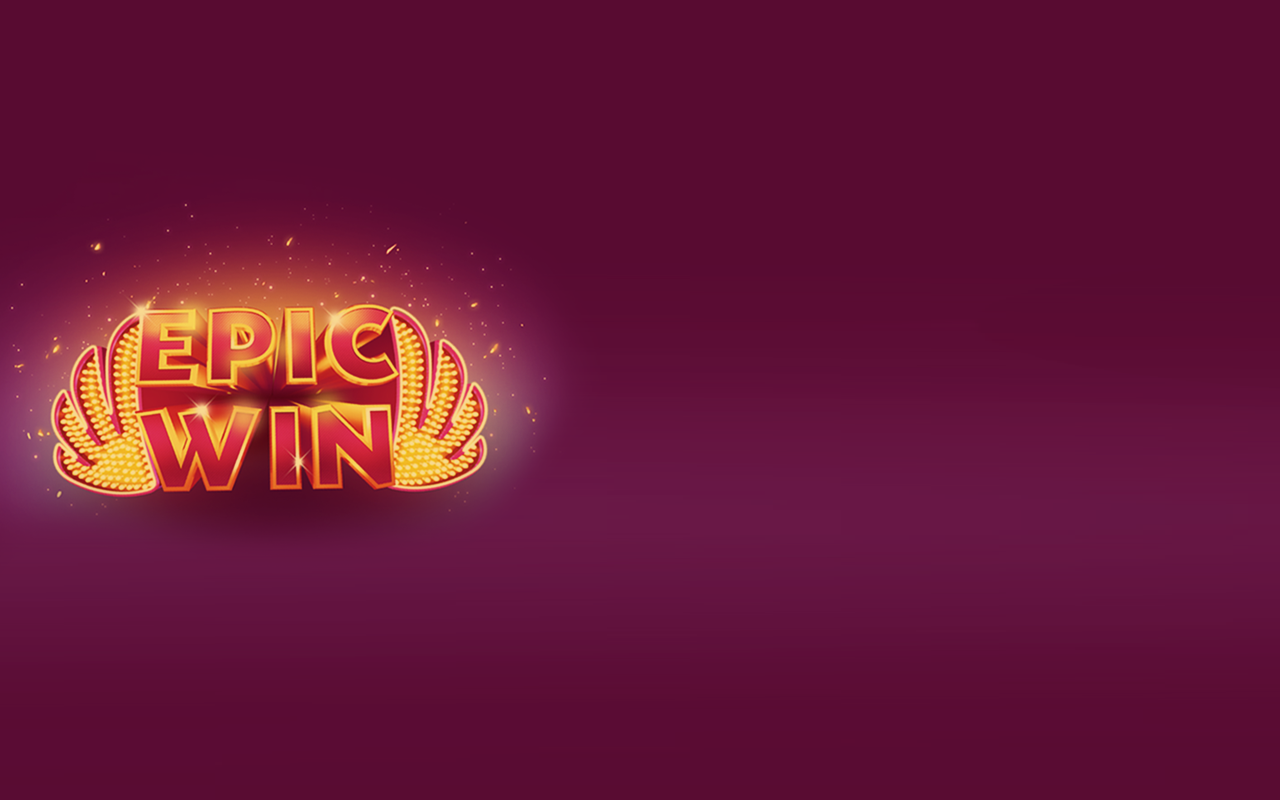
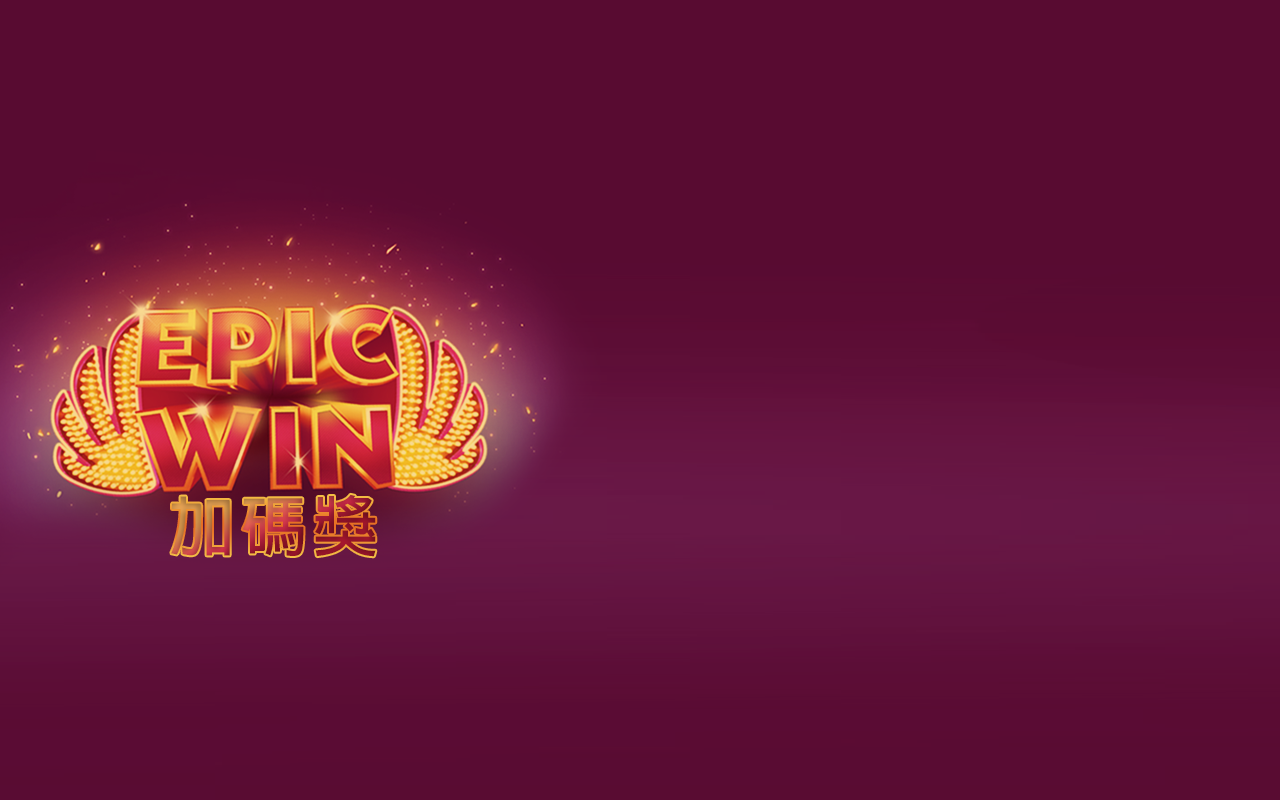
增加新人獎與加碼獎人數

Changed region(s): [[0.125, 0.5938, 0.3125, 0.7188]]

diff --git a/static/css/app.43337845.css b/static/css/app.43337845.css
@@ -1,4 +1,4 @@
-.p0{background:url(https://wenbatman33.github.io/prize_wall/static/img/all_0.png) no-repeat;background-size:cover}.p1{background:url(https://wenbatman33.github.io/prize_wall/static/img/all_1.png) no-repeat;background-size:cover}.p2{background:url(https://wenbatman33.github.io/prize_wall/static/img/all_2.png) no-repeat;background-size:cover}.p3{background:url(https://wenbatman33.github.io/prize_wall/static/img/all_3.png) no-repeat;background-size:cover}.p4{background:url(https://wenbatman33.github.io/prize_wall/static/img/all_4.png) no-repeat;background-size:cover}.p5{background:url(https://wenbatman33.github.io/prize_wall/static/img/all_5.png) no-repeat;background-size:cover}.p6{background:url(https://wenbatman33.github.io/prize_wall/static/img/all_6.png) no-repeat;background-size:cover}.p7{background:url(https://wenbatman33.github.io/prize_wall/static/img/all_7.png) no-repeat;background-size:cover}.p8{background:url(https://wenbatman33.github.io/prize_wall/static/img/all_8.png) no-repeat;background-size:cover}.p9{background:url(https://wenbatman33.github.io/prize_wall/static/img/all_9.png) no-repeat;background-size:cover}.p10{background:url(https://wenbatman33.github.io/prize_wall/static/img/all_10.png) no-repeat;background-size:cover}.p11{background:url(https://wenbatman33.github.io/prize_wall/static/img/all_11.png) no-repeat;background-size:cover}.main{overflow:hidden}.content,.main{width:100%;height:100%}.content{color:#fff;position:relative;z-index:2}.el-carousel{height:100vh}.el-carousel__container{height:100%!important}.el-carousel__item{height:100vh}.el-carousel__item h3{color:#475669;font-size:18px;margin:0}.el-carousel__item:nth-child(3n){background-color:#99a9bf}.el-carousel__item:nth-child(3n+1){background-color:#d3dce6}.el-carousel__item:nth-child(3n+2){background-color:#f90}@-webkit-keyframes zoomout{0%{-webkit-transform:scale(1.2);transform:scale(1.2)}to{-webkit-transform:scale(1);transform:scale(1)}}@keyframes zoomout{0%{-webkit-transform:scale(1.2);transform:scale(1.2)}to{-webkit-transform:scale(1);transform:scale(1)}}@-webkit-keyframes zoom{0%{-webkit-transform:scale(1);transform:scale(1)}to{-webkit-transform:scale(1.2);transform:scale(1.2)}}@keyframes zoom{0%{-webkit-transform:scale(1);transform:scale(1)}to{-webkit-transform:scale(1.2);transform:scale(1.2)}}.bg{position:absolute;top:0;left:0;width:100%;height:100%}.prizeBG{background-size:cover;background-repeat:no-repeat;background-position:50%;z-index:1;-webkit-animation:zoomout 8s forwards;animation:zoomout 8s forwards}@-webkit-keyframes moveTop{0%{top:55%;opacity:0}to{top:45%;opacity:1}}@keyframes moveTop{0%{top:55%;opacity:0}to{top:45%;opacity:1}}.PrizeTitle{position:absolute;width:20%;top:45%;left:40%;z-index:10;opacity:0}.PrizeTitle img{max-width:100%;height:auto}.PrizeList{position:absolute;width:40%;height:100%;left:60%;padding:10px}.PrizeList .PrizeMember{padding:12px;background:hsla(0,0%,100%,.2);border-radius:20px;-webkit-box-shadow:0 2px 12px 0 rgba(0,0,0,.1);box-shadow:0 2px 12px 0 rgba(0,0,0,.1);font-size:24px}.PrizeList .PrizeMember span{text-shadow:0 0 .2em rgba(0,0,0,.3),0 0 .2em rgba(0,0,0,.3)}.is-active .prizeBG{-webkit-animation:zoom 8s forwards;animation:zoom 8s forwards}.is-active .PrizeTitle{-webkit-animation-delay:1s;animation-delay:1s;-webkit-animation:moveTop 1s forwards;animation:moveTop 1s forwards}.titleDiv img{width:100%;height:auto}.hover{position:absolute;top:0;left:0;width:100%;height:100%;background:hsla(0,0%,100%,.02);z-index:300}.gid{font-size:16px}.plusPrize{color:#ccc;opacity:.8;font-weight:300}.memberName{font-weight:700}a,abbr,acronym,address,applet,article,aside,audio,b,big,blockquote,body,canvas,caption,center,cite,code,dd,del,details,dfn,div,dl,dt,em,embed,fieldset,figcaption,figure,footer,form,h1,h2,h3,h4,h5,h6,header,hgroup,html,i,iframe,img,ins,kbd,label,legend,li,mark,menu,nav,object,ol,output,p,pre,q,ruby,s,samp,section,small,span,strike,strong,sub,summary,sup,table,tbody,td,tfoot,th,thead,time,tr,tt,u,ul,var,video{margin:0;padding:0;border:0;font-size:100%;font:inherit;vertical-align:baseline}article,aside,details,figcaption,figure,footer,header,hgroup,menu,nav,section{display:block}body{line-height:1}ol,ul{list-style:none}blockquote,q{quotes:none}blockquote:after,blockquote:before,q:after,q:before{content:"";content:none}table{border-spacing:0}
+.p0{background:url(https://wenbatman33.github.io/prize_wall/static/img/all_0.png) no-repeat;background-size:cover}.p1{background:url(https://wenbatman33.github.io/prize_wall/static/img/all_1.png) no-repeat;background-size:cover}.p2{background:url(https://wenbatman33.github.io/prize_wall/static/img/all_2.png) no-repeat;background-size:cover}.p3{background:url(https://wenbatman33.github.io/prize_wall/static/img/all_3.png) no-repeat;background-size:cover}.p4{background:url(https://wenbatman33.github.io/prize_wall/static/img/all_4.png) no-repeat;background-size:cover}.p5{background:url(https://wenbatman33.github.io/prize_wall/static/img/all_5.png) no-repeat;background-size:cover}.p6{background:url(https://wenbatman33.github.io/prize_wall/static/img/all_6.png) no-repeat;background-size:cover}.p7{background:url(https://wenbatman33.github.io/prize_wall/static/img/all_7.png) no-repeat;background-size:cover}.p8{background:url(https://wenbatman33.github.io/prize_wall/static/img/all_8.png) no-repeat;background-size:cover}.p9{background:url(https://wenbatman33.github.io/prize_wall/static/img/all_9.png) no-repeat;background-size:cover}.p10{background:url(https://wenbatman33.github.io/prize_wall/static/img/all_10.png) no-repeat;background-size:cover}.p11{background:url(https://wenbatman33.github.io/prize_wall/static/img/all_11.png) no-repeat;background-size:cover}.main{overflow:hidden}.content,.main{width:100%;height:100%}.content{color:#fff;position:relative;z-index:2}.el-carousel{height:100vh}.el-carousel__container{height:100%!important}.el-carousel__item{height:100vh}.el-carousel__item h3{color:#475669;font-size:18px;margin:0}.el-carousel__item:nth-child(3n){background-color:#99a9bf}.el-carousel__item:nth-child(3n+1){background-color:#d3dce6}.el-carousel__item:nth-child(3n+2){background-color:#f90}@-webkit-keyframes zoomout{0%{-webkit-transform:scale(1.2);transform:scale(1.2)}to{-webkit-transform:scale(1);transform:scale(1)}}@keyframes zoomout{0%{-webkit-transform:scale(1.2);transform:scale(1.2)}to{-webkit-transform:scale(1);transform:scale(1)}}@-webkit-keyframes zoom{0%{-webkit-transform:scale(1);transform:scale(1)}to{-webkit-transform:scale(1.2);transform:scale(1.2)}}@keyframes zoom{0%{-webkit-transform:scale(1);transform:scale(1)}to{-webkit-transform:scale(1.2);transform:scale(1.2)}}.bg{position:absolute;top:0;left:0;width:100%;height:100%}.prizeBG{background-size:cover;background-repeat:no-repeat;background-position:50%;z-index:1;-webkit-animation:zoomout 8s forwards;animation:zoomout 8s forwards}@-webkit-keyframes moveTop{0%{top:55%;opacity:0}to{top:45%;opacity:1}}@keyframes moveTop{0%{top:55%;opacity:0}to{top:45%;opacity:1}}.PrizeTitle{position:absolute;width:20%;top:45%;left:40%;z-index:10;opacity:0}.PrizeTitle img{max-width:100%;height:auto}.PrizeList{position:absolute;width:40%;height:100%;left:60%;padding:10px}.is-active .prizeBG{-webkit-animation:zoom 8s forwards;animation:zoom 8s forwards}.is-active .PrizeTitle{-webkit-animation-delay:1s;animation-delay:1s;-webkit-animation:moveTop 1s forwards;animation:moveTop 1s forwards}.titleDiv img{width:100%;height:auto}.hover{position:absolute;top:0;left:0;width:100%;height:100%;background:hsla(0,0%,100%,.02);z-index:300}.PrizeMember{padding:12px;background:hsla(0,0%,100%,.2);border-radius:20px;-webkit-box-shadow:0 2px 12px 0 rgba(0,0,0,.1);box-shadow:0 2px 12px 0 rgba(0,0,0,.1);font-size:24px}.PrizeMember span{text-shadow:0 0 .2em rgba(0,0,0,.3),0 0 .2em rgba(0,0,0,.3)}.PrizeMember .gid{font-size:16px}.PrizeMember .memberName{font-weight:700}.PrizeMember .plusPrize{color:#fff;opacity:.8;font-weight:300}.PrizPluseMember{padding:12px;background:hsla(0,0%,100%,.2);border-radius:20px;-webkit-box-shadow:0 2px 12px 0 rgba(0,0,0,.1);box-shadow:0 2px 12px 0 rgba(0,0,0,.1);font-size:24px}.PrizPluseMember span{text-shadow:0 0 .2em rgba(0,0,0,.3),0 0 .2em rgba(0,0,0,.3)}.PrizPluseMember .gid{font-size:12px}.PrizPluseMember .memberName{font-weight:700}.PrizPluseMember .plusPrize{font-size:16px;color:#fff;opacity:.8;font-weight:300}a,abbr,acronym,address,applet,article,aside,audio,b,big,blockquote,body,canvas,caption,center,cite,code,dd,del,details,dfn,div,dl,dt,em,embed,fieldset,figcaption,figure,footer,form,h1,h2,h3,h4,h5,h6,header,hgroup,html,i,iframe,img,ins,kbd,label,legend,li,mark,menu,nav,object,ol,output,p,pre,q,ruby,s,samp,section,small,span,strike,strong,sub,summary,sup,table,tbody,td,tfoot,th,thead,time,tr,tt,u,ul,var,video{margin:0;padding:0;border:0;font-size:100%;font:inherit;vertical-align:baseline}article,aside,details,figcaption,figure,footer,header,hgroup,menu,nav,section{display:block}body{line-height:1}ol,ul{list-style:none}blockquote,q{quotes:none}blockquote:after,blockquote:before,q:after,q:before{content:"";content:none}table{border-spacing:0}
 /*!
  * Bootstrap v4.2.1 (https://getbootstrap.com/)
  * Copyright 2011-2018 The Bootstrap Authors

diff --git a/static/js/app.2b0ed52c.js b/static/js/app.2b0ed52c.js
@@ -1,0 +1,2 @@
+(function(e){function t(t){for(var n,s,o=t[0],c=t[1],l=t[2],p=0,f=[];p<o.length;p++)s=o[p],i[s]&&f.push(i[s][0]),i[s]=0;for(n in c)Object.prototype.hasOwnProperty.call(c,n)&&(e[n]=c[n]);u&&u(t);while(f.length)f.shift()();return a.push.apply(a,l||[]),r()}function r(){for(var e,t=0;t<a.length;t++){for(var r=a[t],n=!0,o=1;o<r.length;o++){var c=r[o];0!==i[c]&&(n=!1)}n&&(a.splice(t--,1),e=s(s.s=r[0]))}return e}var n={},i={app:0},a=[];function s(t){if(n[t])return n[t].exports;var r=n[t]={i:t,l:!1,exports:{}};return e[t].call(r.exports,r,r.exports,s),r.l=!0,r.exports}s.m=e,s.c=n,s.d=function(e,t,r){s.o(e,t)||Object.defineProperty(e,t,{enumerable:!0,get:r})},s.r=function(e){"undefined"!==typeof Symbol&&Symbol.toStringTag&&Object.defineProperty(e,Symbol.toStringTag,{value:"Module"}),Object.defineProperty(e,"__esModule",{value:!0})},s.t=function(e,t){if(1&t&&(e=s(e)),8&t)return e;if(4&t&&"object"===typeof e&&e&&e.__esModule)return e;var r=Object.create(null);if(s.r(r),Object.defineProperty(r,"default",{enumerable:!0,value:e}),2&t&&"string"!=typeof e)for(var n in e)s.d(r,n,function(t){return e[t]}.bind(null,n));return r},s.n=function(e){var t=e&&e.__esModule?function(){return e["default"]}:function(){return e};return s.d(t,"a",t),t},s.o=function(e,t){return Object.prototype.hasOwnProperty.call(e,t)},s.p="/prize_wall/";var o=window["webpackJsonp"]=window["webpackJsonp"]||[],c=o.push.bind(o);o.push=t,o=o.slice();for(var l=0;l<o.length;l++)t(o[l]);var u=c;a.push([0,"chunk-vendors"]),r()})({0:function(e,t,r){e.exports=r("56d7")},"21bb":function(e,t,r){"use strict";var n=r("bcc9"),i=r.n(n);i.a},"56d7":function(e,t,r){"use strict";r.r(t);r("cadf"),r("551c"),r("097d");var n=r("8bbf"),i=r.n(n),a=function(){var e=this,t=e.$createElement,r=e._self._c||t;return r("div",{attrs:{id:"app"}},[r("Home")],1)},s=[],o=function(){var e=this,t=e.$createElement,r=e._self._c||t;return r("div",{staticClass:"home"},[r("div",{staticClass:"hover"}),r("div",{staticClass:"container-fluid h-100"},[r("div",{staticClass:"main"},[e.show?r("el-carousel",{attrs:{"indicator-position":"none",hover:"false",trigger:"none",loop:e.loop,interval:e.interval,arrow:"arrow"}},e._l(e.tempArray,function(t,n){return t.length>0?r("el-carousel-item",{key:n},[r("div",{staticClass:"content"},0==n||11==n?[r("div",{staticClass:"row h-100"},[r("div",{staticClass:"col-4"}),r("div",{staticClass:"col-8"},[r("div",{staticClass:"h-100"},[r("div",{staticClass:"row h-100 align-items-center justify-content-end p-5"},e._l(t,function(t,n){return r("div",{key:n,staticClass:"col-4"},[r("div",{staticClass:"PrizPluseMember"},[r("span",{staticClass:"gid"},[e._v(e._s(t.member.gid)+" ")]),r("span",{staticClass:"memberName"},[e._v(e._s(e.replace(t.member.name))+" ")]),r("span",{staticClass:"plusPrize"},[e._v(e._s(t.plusPrize))])])])}),0)])])])]:[r("div",{staticClass:"PrizeTitle"},[r("img",{attrs:{src:e.imgUrl(n)}})]),r("div",{staticClass:"PrizeList d-flex justify-content-center align-content-center flex-column"},e._l(t,function(t,n){return r("div",{key:n,staticClass:"PrizeMember my-3"},[r("span",{staticClass:"gid"},[e._v(e._s(t.member.gid)+" ")]),r("span",{staticClass:"memberName"},[e._v(e._s(e.replace(t.member.name))+" ")]),r("span",{staticClass:"plusPrize"},[e._v(e._s(t.plusPrize))])])}),0)]),r("div",{staticClass:"bg prizeBG",class:"p"+n})]):e._e()}),1):e._e()],1)])])},c=[],l=(r("ac6a"),r("a481"),{data:function(){return{firestorePrizeTitle:["加碼獎","1獎","2獎","3獎","4獎","5獎","6獎","7獎","8獎","9獎","10獎","新生買回"],firestorePrize:{},tempArray:[],loop:!0,interval:6e5,arrow:"never",show:!0,iType:1}},firestore:function(){return{firestorePrize:z.collection("prize").orderBy("time","desc")}},watch:{firestorePrize:function(e){var t=this;this.tempArray=[],setTimeout(function(){t.tempArray=t.getData()},300)}},methods:{replace:function(e){var t=e;return t.replace("_"," ")},imgUrl:function(e){return"https://wenbatman33.github.io/prize_wall/static/img/t_"+e+".png"},getData:function(){var e,t=this,r=this,n=[];return this.firestorePrizeTitle.forEach(function(r){e=t.firestorePrize.filter(function(e){return-1!=e.prizeTitle.indexOf(r)}),n.push(e)}),r.show=!0,r.tempArray=n,n}},mounted:function(){}}),u=l,p=(r("21bb"),r("2877")),f=Object(p["a"])(u,o,c,!1,null,null,null);f.options.__file="Home.vue";var d=f.exports,m={name:"app",components:{Home:d}},v=m,b=(r("5c0b"),Object(p["a"])(v,a,s,!1,null,null,null));b.options.__file="App.vue";var h=b.exports,g=r("5f72"),_=r.n(g),y=r("0ff2"),w=r("59ca"),C=r.n(w);r("ea7b"),r("e71f");r.d(t,"db",function(){return z}),i.a.use(y["a"]),i.a.use(_.a),C.a.initializeApp({apiKey:"AIzaSyDHVVuMjchcngBnINQ8DI5LLnlkimRgJU8",authDomain:"party-261c0.firebaseapp.com",databaseURL:"https://party-261c0.firebaseio.com",projectId:"party-261c0",storageBucket:"party-261c0.appspot.com",messagingSenderId:"528572212327"}),C.a.firestore().settings({timestampsInSnapshots:!0}),i.a.config.productionTip=!1;var z=C.a.firestore();i.a.config.ignoredElements=["qrcode-reader","QrcodeReader"],new i.a({render:function(e){return e(h)}}).$mount("#app")},"5c0b":function(e,t,r){"use strict";var n=r("5e27"),i=r.n(n);i.a},"5e27":function(e,t,r){},"5f72":function(e,t){e.exports=ELEMENT},"8bbf":function(e,t){e.exports=Vue},bcc9:function(e,t,r){}});
+//# sourceMappingURL=app.2b0ed52c.js.map

diff --git a/index.html b/index.html
@@ -1,1 +1,1 @@
-<!DOCTYPE html><html lang=en><head><meta charset=utf-8><meta http-equiv=X-UA-Compatible content="IE=edge"><meta name=viewport content="width=device-width,initial-scale=1,maximum-scale=1,user-scalable=no"><script src=https://cdn.jsdelivr.net/npm/vue/dist/vue.js></script><script src=https://unpkg.com/element-ui/lib/index.js></script><link rel=stylesheet href=https://stackpath.bootstrapcdn.com/bootstrap/4.1.3/css/bootstrap.min.css><link rel=stylesheet href=https://unpkg.com/element-ui/lib/theme-chalk/index.css><link rel=stylesheet href=https://use.fontawesome.com/releases/v5.6.3/css/all.css integrity=sha384-UHRtZLI+pbxtHCWp1t77Bi1L4ZtiqrqD80Kn4Z8NTSRyMA2Fd33n5dQ8lWUE00s/ crossorigin=anonymous><script src=https://cdn.jsdelivr.net/npm/mobile-detect@1.4.3/mobile-detect.min.js></script><title>18_LUCK_PARTY</title><link href=/prize_wall/static/css/app.a33b70ae.css rel=preload as=style><link href=/prize_wall/static/js/app.aeeaf5a6.js rel=preload as=script><link href=/prize_wall/static/js/chunk-vendors.81c07e97.js rel=preload as=script><link href=/prize_wall/static/css/app.a33b70ae.css rel=stylesheet></head><body><noscript><strong>We're sorry but vueFirestore doesn't work properly without JavaScript enabled. Please enable it to continue.</strong></noscript><div id=app></div><script src=/prize_wall/static/js/chunk-vendors.81c07e97.js></script><script src=/prize_wall/static/js/app.aeeaf5a6.js></script></body></html>
+<!DOCTYPE html><html lang=en><head><meta charset=utf-8><meta http-equiv=X-UA-Compatible content="IE=edge"><meta name=viewport content="width=device-width,initial-scale=1,maximum-scale=1,user-scalable=no"><script src=https://cdn.jsdelivr.net/npm/vue/dist/vue.js></script><script src=https://unpkg.com/element-ui/lib/index.js></script><link rel=stylesheet href=https://stackpath.bootstrapcdn.com/bootstrap/4.1.3/css/bootstrap.min.css><link rel=stylesheet href=https://unpkg.com/element-ui/lib/theme-chalk/index.css><link rel=stylesheet href=https://use.fontawesome.com/releases/v5.6.3/css/all.css integrity=sha384-UHRtZLI+pbxtHCWp1t77Bi1L4ZtiqrqD80Kn4Z8NTSRyMA2Fd33n5dQ8lWUE00s/ crossorigin=anonymous><script src=https://cdn.jsdelivr.net/npm/mobile-detect@1.4.3/mobile-detect.min.js></script><title>18_LUCK_PARTY</title><link href=/prize_wall/static/css/app.43337845.css rel=preload as=style><link href=/prize_wall/static/js/app.2b0ed52c.js rel=preload as=script><link href=/prize_wall/static/js/chunk-vendors.81c07e97.js rel=preload as=script><link href=/prize_wall/static/css/app.43337845.css rel=stylesheet></head><body><noscript><strong>We're sorry but vueFirestore doesn't work properly without JavaScript enabled. Please enable it to continue.</strong></noscript><div id=app></div><script src=/prize_wall/static/js/chunk-vendors.81c07e97.js></script><script src=/prize_wall/static/js/app.2b0ed52c.js></script></body></html>
